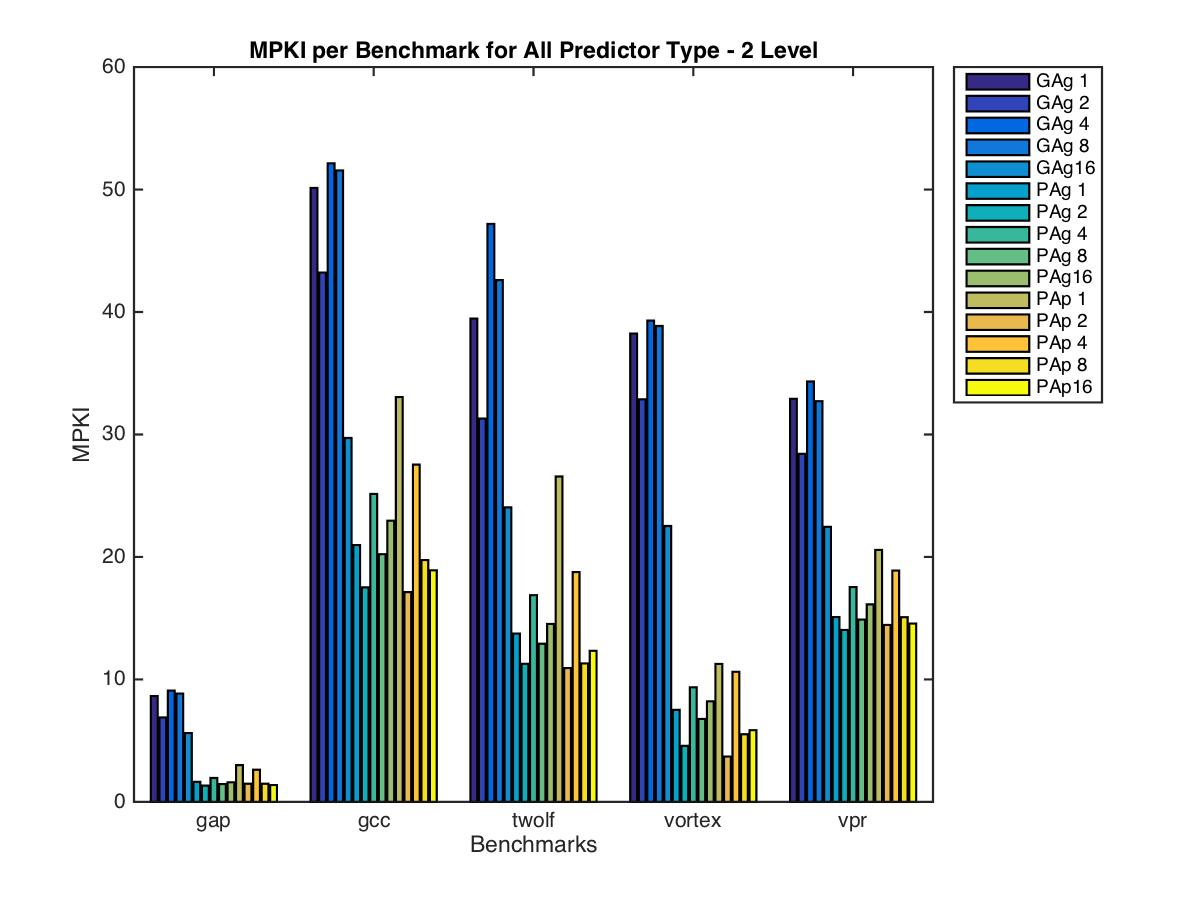
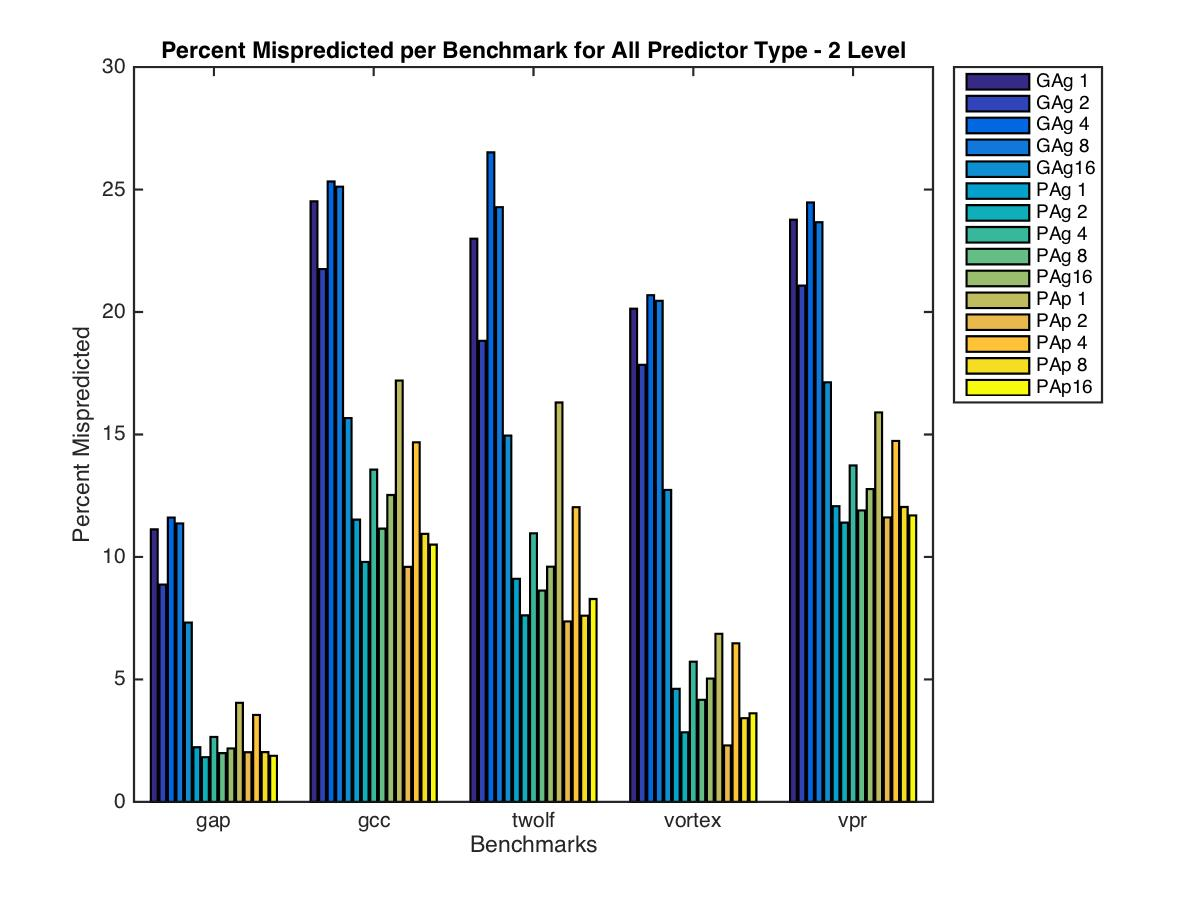
new graphs with percentages

diff --git a/src/TwoLevelDataGatherer.java b/src/TwoLevelDataGatherer.java
@@ -16,7 +16,7 @@ import java.util.ArrayList;
 
 public class TwoLevelDataGatherer {
 
-	private static final String TWO_LEVEL_DATA_FILE = "TwoLevelDataLonger.csv";
+	private static final String TWO_LEVEL_DATA_FILE = "TwoLevelData.csv";
 
 	public List<DataLine> gatherDataFromFolder(String folderName) {
 		List<DataLine> dataLines = new ArrayList<DataLine>();
@@ -43,7 +43,7 @@ public class TwoLevelDataGatherer {
 		/* removes file extension */
 		fileName = fileName.substring(0, fileName.lastIndexOf('.'));
 
-		String instructionCount = "";
+		String branchCount = "";
 		String bPredMisses = "";
 		Config config = null;
 
@@ -55,9 +55,9 @@ public class TwoLevelDataGatherer {
 				if (line.contains("bpred:2lev") && line.contains("(<l1size> <l2size> <hist_size> <xor>)")) {
 					config = getFileConfig(line);
 				}
-				if (line.contains("sim_num_insn")) {
+				if (line.contains("sim_total_branches")) {
 					String[] splits = line.split("\\s+");
-					instructionCount = splits[1];
+					branchCount = splits[1];
 				}
 				if (line.contains("bpred_2lev.misses")) {
 					String[] splits = line.split("\\s+");
@@ -66,7 +66,7 @@ public class TwoLevelDataGatherer {
 				line = br.readLine();
 			}
 		} catch (IOException e) { }
-		DataLine dataLine= new DataLine(benchmark, config, bPredMisses, instructionCount);
+		DataLine dataLine= new DataLine(benchmark, config, bPredMisses, branchCount);
 		return dataLine;
 	}
 
@@ -110,7 +110,7 @@ public class TwoLevelDataGatherer {
 						         dataLine.config.historyWidth + "," +
 						         dataLine.config.xor + "," +
 						         dataLine.bPredMisses + "," +
-						         dataLine.numInstructions;
+						         dataLine.numBranches;
 				writer.write(lineOut);
 				writer.newLine();
 			}
@@ -138,13 +138,13 @@ public class TwoLevelDataGatherer {
 		private String benchmark;
 		private Config config;
 		private String bPredMisses;
-		private String numInstructions;
+		private String numBranches;
 
-		public DataLine(String benchmark, Config config, String bPredMisses, String numInstructions) {
+		public DataLine(String benchmark, Config config, String bPredMisses, String numBranches) {
 			this.benchmark = benchmark;
 			this.config = config;
 			this.bPredMisses = bPredMisses;
-			this.numInstructions = numInstructions;
+			this.numBranches = numBranches;
 		}
 	}
 

diff --git a/plot_two_level.m b/plot_two_level.m
@@ -8,41 +8,31 @@ fid = fopen('TwoLevelData.csv');
 C = textscan(fid, '%s %s %f %f %f %f %f %f', 'Delimiter', ',', 'EmptyValue', -Inf);
 fclose(fid);
 
-% swapping columns for easier sorting
-% cellHolder = C{6};
-% C{6} = C{8};
-% C{8} = cellHolder;
-
 benchmarks = categories(categorical(C{1})); % name of benchmarks
 type = categories(categorical(C{2})); % type of predictor
 width = C{5};
-MPKI = C{7}./(C{8}/1000); % misses per thousand instructions
-
-%[sortA, sortI] = sort(C{8});
-% for i=1:7
-%     sort(C{i}
-%sortedC = C(sortI, :);
+percentage = C{7}*100./C{8}; % misses per thousand instructions
 
 %% Displaying Data
-MPKI_bar = reshape(MPKI(1:2:150), 15, [])';
-MPKI_bar_xor = reshape(MPKI(2:2:150), 15, [])';
+percentage_bar = reshape(percentage(1:2:150), 15, [])';
+percentage_bar_xor = reshape(percentage(2:2:150), 15, [])';
 config = categories(categorical(strcat(C{2}, num2str(C{5}))));
 
 %% 2D Representation of All Configurations - 2 Level 
 figure(1)
-bar(MPKI_bar)
+bar(percentage_bar)
 set(gca, 'XTickLabel', benchmarks)
 legend(config, 'Location', 'BestOutside')
-ylabel('MPKI')
+ylabel('Percent Mispredicted')
 xlabel('Benchmarks')
-title('MPKI per Benchmark for All Predictor Type - 2 Level')
+title('Percent Mispredicted per Benchmark for All Predictor Type - 2 Level')
 
 print('2d_2lev_benchmark', '-djpeg')
 
 %% 3D Representation of All Configurations - 2 Level
 figure(2)
-bar3(MPKI_bar)
-zlabel('MPKI')
+bar3(percentage_bar)
+zlabel('Percent Mispredicted')
 ylabel('Benchmark')
 xlabel('Configurations')
 title('3D Representation - 2 Level')
@@ -53,19 +43,19 @@ print('3d_2lev_benchmark', '-djpeg')
 
 %% 2D Representation of All Configurations - gshare 
 figure(3)
-bar(MPKI_bar_xor)
+bar(percentage_bar_xor)
 set(gca, 'XTickLabel', benchmarks)
 legend(config, 'Location', 'BestOutside')
-ylabel('MPKI')
+ylabel('Percent Mispredicted')
 xlabel('Benchmarks')
-title('MPKI per Benchmark for All Predictor Type - gshare')
+title('Percent Mispredicted per Benchmark for All Predictor Type - gshare')
 
 print('2d_gshare_benchmark', '-djpeg')
 
 %% 3D Representation of All Configurations - gshare
 figure(4)
-bar3(MPKI_bar_xor)
-zlabel('MPKI')
+bar3(percentage_bar_xor)
+zlabel('Percent Mispredicted')
 ylabel('Benchmark')
 xlabel('Configurations')
 title('3D Representation - gshare')
